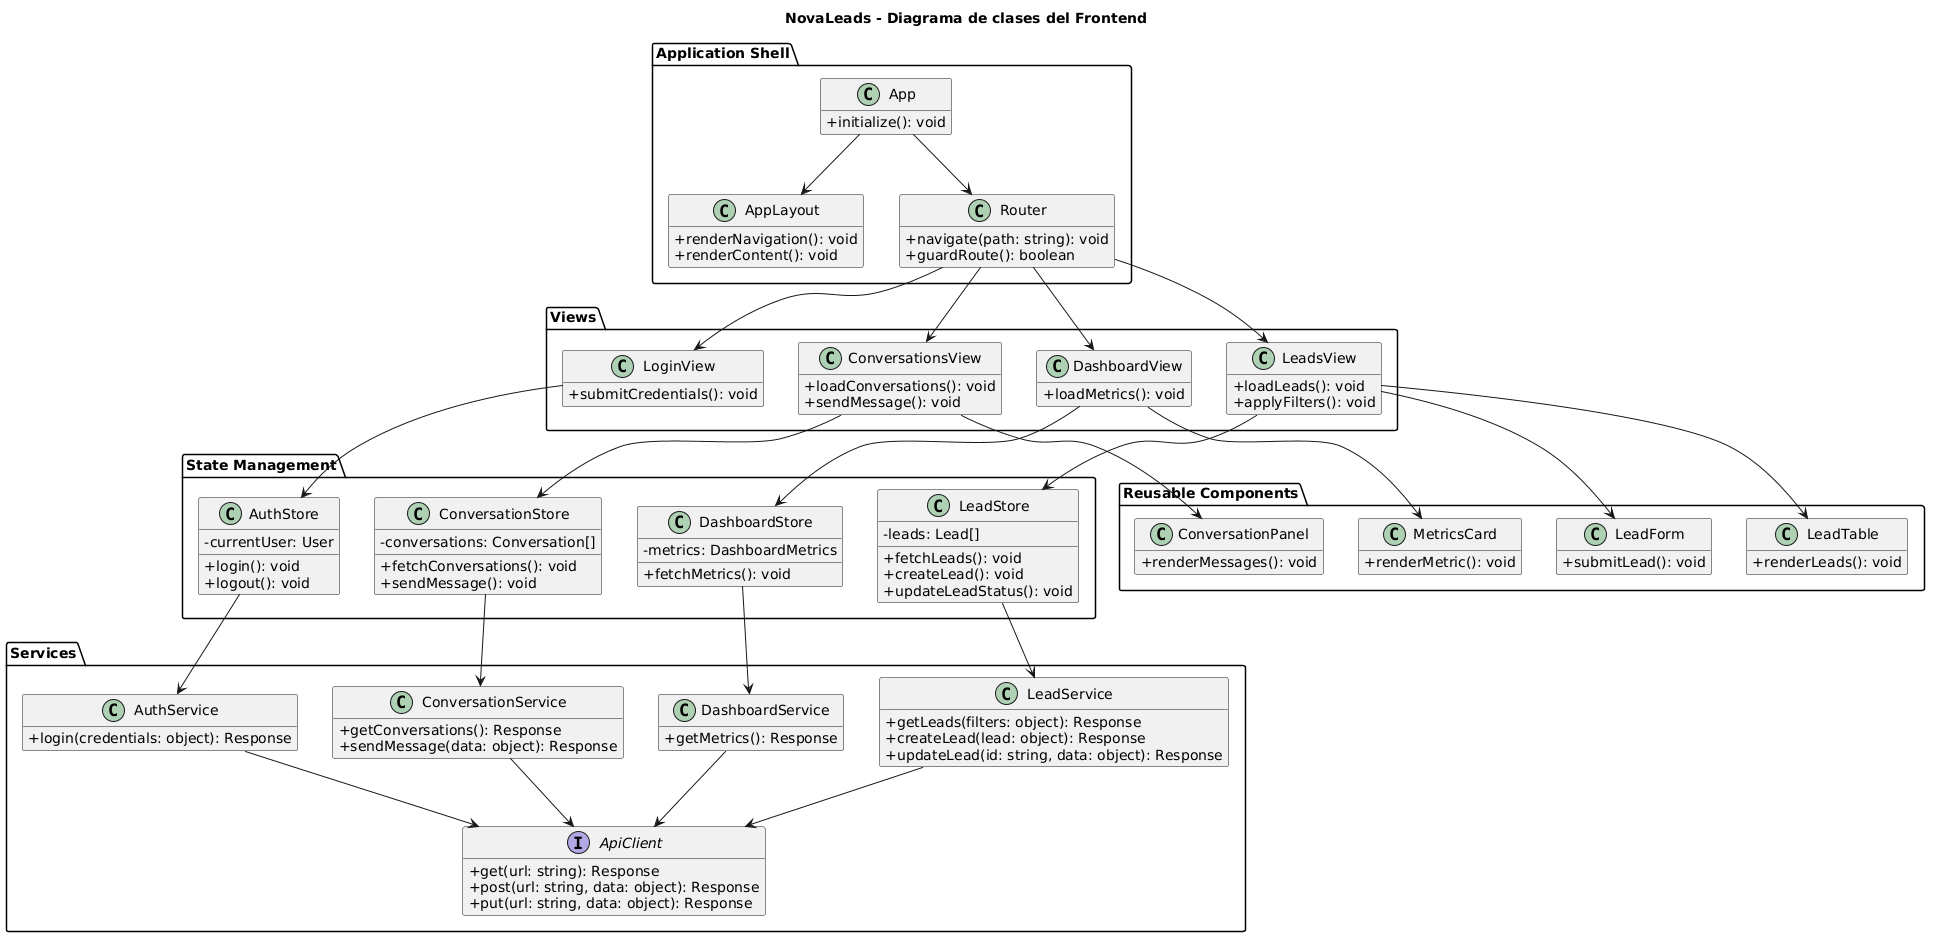
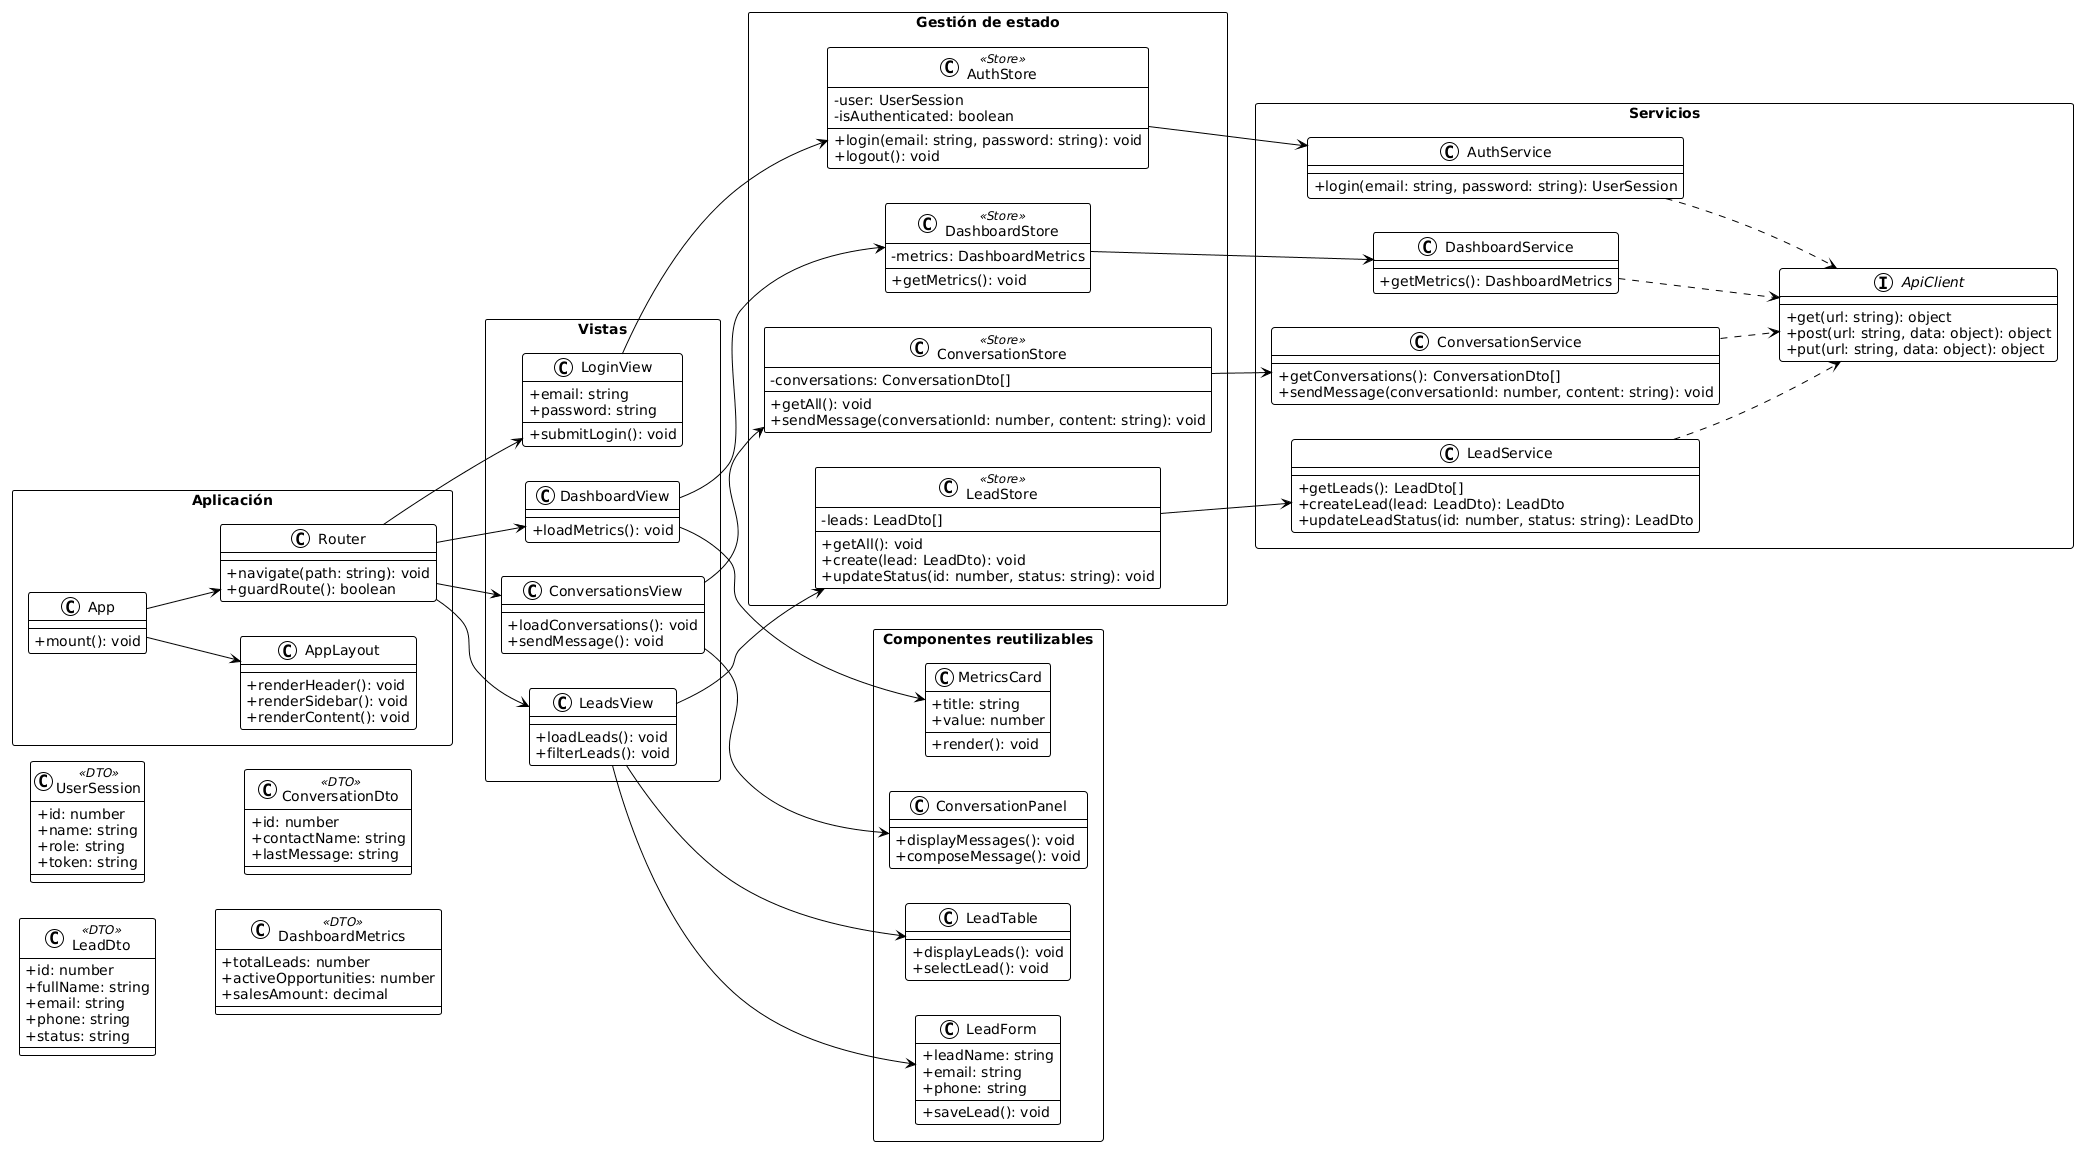
modify class diagram

diff --git a/README.md b/README.md
@@ -484,27 +484,61 @@ A partir de esta estructura se elabora el Class Diagram, el cual detalla los atr
 
 ### 4.7.1. Class Diagrams.
 
-#### Diagrama de clases del Frontend
+En esta sección se presentan los diagramas de clases UML de los productos y bounded contexts que conforman NovaLeads. Los diagramas detallan clases, atributos, métodos, enumeraciones, relaciones y multiplicidades para representar la estructura orientada a objetos de la solución.
+
+#### Diagrama de clases de la Web Application
 
 ![Class Diagram Frontend](Resources/classDiagramFrontend.png)
 
-El diagrama de clases del Frontend representa la organización de la Web Application de NovaLeads desarrollada con Vue.js. La aplicación se estructura mediante un componente principal, un layout compartido y un sistema de rutas que dirige al usuario hacia las vistas de inicio de sesión, dashboard, leads y conversaciones.
+El diagrama de clases de la Web Application representa la organización del frontend de NovaLeads, desarrollado con Vue.js. La aplicación se estructura mediante las clases `App`, `AppLayout` y `Router`, las cuales permiten iniciar la aplicación, mantener una interfaz compartida y dirigir al usuario hacia las distintas vistas.
 
-Las vistas utilizan componentes reutilizables, como formularios de leads, tablas, paneles de conversación y tarjetas de métricas. La gestión del estado se centraliza mediante Stores especializados en autenticación, leads, conversaciones y dashboard.
+Las vistas principales son `LoginView`, `DashboardView`, `LeadsView` y `ConversationsView`. Estas permiten a los usuarios autenticarse, consultar indicadores comerciales, gestionar leads y administrar las conversaciones con contactos.
 
-Los servicios del frontend consumen la REST API mediante un ApiClient, lo que permite desacoplar la interfaz de usuario de la comunicación con el backend.
+Los componentes reutilizables, como `LeadForm`, `LeadTable`, `ConversationPanel` y `MetricsCard`, permiten mantener una interfaz modular y reutilizable. Cada vista utiliza los Stores correspondientes para centralizar el estado de la aplicación.
 
-#### Diagrama de clases del Backend
+Finalmente, los servicios `AuthService`, `LeadService`, `ConversationService` y `DashboardService` se comunican con la REST API mediante la interfaz `ApiClient`. Esto permite separar la lógica de presentación de la comunicación con el backend.
 
-![Class Diagram Backend](Resources/classDiagramBackend.png)
+#### Diagrama de clases del bounded context Identity and Access
 
-El diagrama de clases del Backend representa las entidades principales del dominio de NovaLeads y sus relaciones. La clase User representa a los usuarios autenticados, quienes poseen un Role y permisos asociados para acceder a las funcionalidades autorizadas.
+![Class Diagram Identity and Access](Resources/classDiagramIdentityAccess.png)
 
-Contact centraliza la información de las personas registradas en la plataforma. Un contacto puede clasificarse como Lead o Client. Los leads pueden tener etiquetas y generar oportunidades comerciales asignadas a un vendedor.
+El bounded context **Identity and Access** gestiona la autenticación y autorización de los usuarios de NovaLeads. La entidad `User` representa a los dueños de pymes, administradores o vendedores que acceden a la plataforma, mientras que `Role` permite asignar responsabilidades dentro del sistema.
 
-Las conversaciones se relacionan con los contactos y agrupan los mensajes intercambiados mediante WhatsApp. Además, pueden generar notificaciones cuando existen mensajes pendientes de respuesta o requieren atención prioritaria.
+Cada rol puede incluir múltiples permisos mediante la entidad `Permission`. Estos permisos determinan las acciones que puede realizar cada usuario, como gestionar usuarios, leads, contactos, conversaciones o consultar el dashboard.
 
-Finalmente, las oportunidades pueden derivar en una venta, permitiendo registrar el monto obtenido y alimentar los indicadores del dashboard.
+La clase `AuthenticationService` centraliza el proceso de inicio de sesión. Para ello, consulta al usuario mediante `IUserRepository`, valida la contraseña con `IPasswordHasher` y genera un token de acceso a través de `ITokenProvider`. El `AuthController` expone estas funcionalidades mediante la REST API.
+
+#### Diagrama de clases del bounded context Lead and Contact Management
+
+![Class Diagram Lead and Contact Management](Resources/classDiagramLeadContact.png)
+
+El bounded context **Lead and Contact Management** concentra la gestión de los contactos comerciales de NovaLeads. La clase abstracta `Contact` almacena la información común, como nombre, correo, teléfono y empresa. A partir de ella se especializan las clases `Lead` y `Client`.
+
+Un `Lead` representa a un contacto que todavía se encuentra en proceso de captación. Puede cambiar de estado, clasificarse mediante múltiples etiquetas `Tag` y convertirse en un `Client` cuando concreta una relación comercial.
+
+Cada lead puede generar una o varias `Opportunity`. Estas registran el monto estimado, el estado de la oportunidad, la fecha esperada de cierre y el vendedor responsable. Los controladores exponen las operaciones mediante la REST API, mientras que los servicios aplican la lógica del negocio y utilizan repositorios para persistir los datos.
+
+#### Diagrama de clases del bounded context Conversation Management
+
+![Class Diagram Conversation Management](Resources/classDiagramConversationManagement.png)
+
+El bounded context **Conversation Management** permite registrar y administrar las comunicaciones entre el equipo comercial y los contactos de NovaLeads. La clase `Conversation` representa el historial de interacción de un contacto mediante un canal determinado, mientras que `Message` almacena cada mensaje enviado o recibido.
+
+Cada conversación puede contener múltiples mensajes y generar notificaciones para los usuarios responsables. Las notificaciones permiten alertar sobre mensajes nuevos, conversaciones sin respuesta o contactos que requieren atención prioritaria.
+
+La clase `WhatsAppWebhookController` recibe los mensajes entrantes desde WhatsApp Business API. El `ConversationService` registra dichos mensajes y permite enviar respuestas mediante `IWhatsAppBusinessGateway`. Finalmente, `NotificationService` genera las alertas necesarias y las almacena mediante los repositorios correspondientes.
+
+#### Diagrama de clases del bounded context Sales and Dashboard
+
+![Class Diagram Sales and Dashboard](Resources/classDiagramSalesDashboard.png)
+
+El bounded context **Sales and Dashboard** permite registrar las oportunidades comerciales concretadas y mostrar indicadores sobre el desempeño de las actividades de ventas. La clase `Sale` almacena el monto, la fecha, el estado y las observaciones de cada venta realizada.
+
+Cada venta se relaciona con una `Opportunity` proveniente del bounded context Lead and Contact Management. De esta manera, NovaLeads puede identificar qué oportunidades fueron concretadas y qué vendedor estuvo asignado a cada una.
+
+La clase `DashboardSummary` reúne las métricas principales, como cantidad total de leads, oportunidades abiertas, ventas concretadas y monto total de ventas. Estas métricas se representan mediante `DashboardMetric` y pueden filtrarse por rango de fechas o vendedor.
+
+Los controladores `SalesController` y `DashboardController` exponen las funcionalidades mediante la REST API. Los servicios utilizan repositorios para consultar y almacenar la información necesaria para el dashboard comercial.
 
 ## 4.8. Database Design.
 
